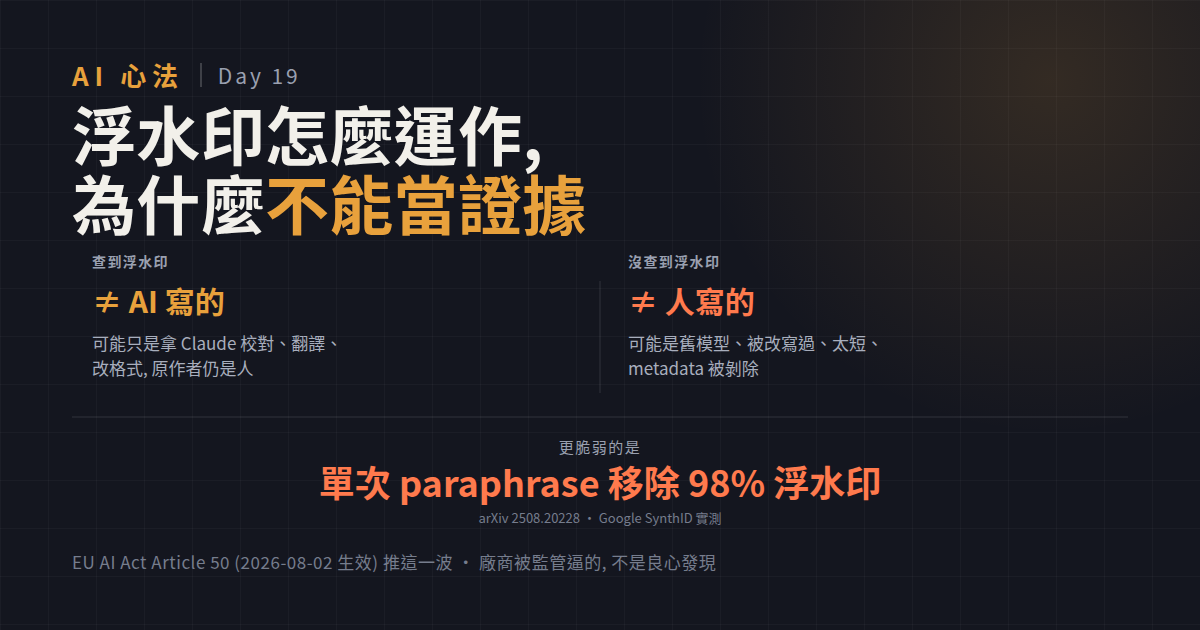
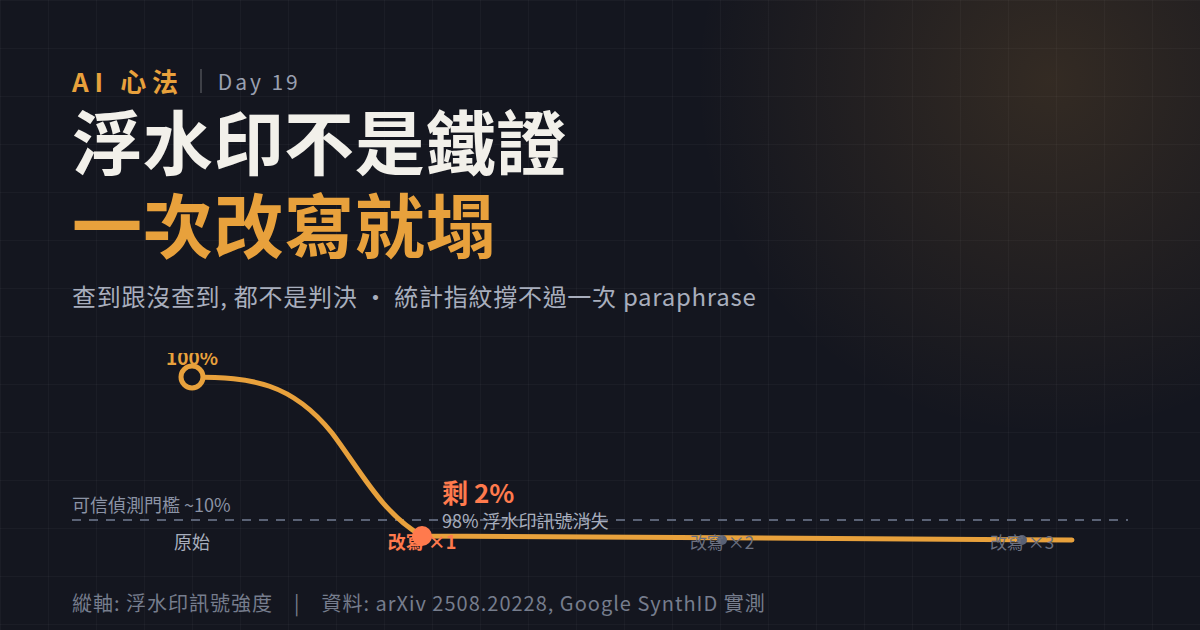
Day 19 cover 改版: 仿 Day 1-5 圖像風, 衰退曲線
- 版式: 從兩欄文字 ≠ 卡 換成 Day 2 式衰退曲線 chart
- H1 改短「浮水印不是鐵證 / 一次改寫就塌」, em 標「一次改寫就塌」
- 新增 sub 標 (Day 1-5 慣例): 「查到跟沒查到, 都不是判決 · 統計指紋撐不過一次 paraphrase」
- SVG chart:
  - X 軸: 原始 / 改寫 ×1 / 改寫 ×2 / 改寫 ×3
  - 曲線從 100% (gold 大圓) 急墜到 2% (紅圓), 之後幾乎平貼底部
  - 「剩 2%」紅字 highlight + 「98% 浮水印訊號消失」小字補
  - 虛線標「可信偵測門檻 ~10%」
- Foot 改 Day 2 格式: 「縱軸: 浮水印訊號強度 | 資料: arXiv 2508.20228, Google SynthID 實測」
- 標題字級拉到 70px, line-height 1.18, 跟 Day 1-5 一致
- padding 56 → 62, 跟 Day 1-5 一致

diff --git a/05-notes/ironman/assets/cover-day19.html b/05-notes/ironman/assets/cover-day19.html
@@ -7,50 +7,56 @@ body{width:1200px;height:630px;font-family:"Noto Sans CJK TC",sans-serif;
   background-size:48px 48px}
 .glow{position:absolute;width:760px;height:760px;right:-230px;top:-300px;border-radius:50%;
   background:radial-gradient(circle,#e8a13c26 0%,transparent 66%)}
-.wrap{position:relative;padding:56px 72px;height:100%;display:flex;flex-direction:column;justify-content:space-between}
+.wrap{position:relative;padding:62px 72px;height:100%;display:flex;flex-direction:column;justify-content:space-between}
 .top{display:flex;align-items:center;gap:16px}
 .mark{font-size:26px;font-weight:700;letter-spacing:.22em;color:#e8a13c}
 .bar{width:2px;height:24px;background:#ffffff2e}
 .day{font-size:21px;letter-spacing:.14em;color:#9aa0b0}
-h1{font-size:64px;font-weight:900;line-height:1.08;letter-spacing:.005em}
+h1{font-size:70px;font-weight:900;line-height:1.18;letter-spacing:.01em}
 h1 em{font-style:normal;color:#e8a13c}
-.chartwrap{margin-bottom:4px;margin-top:4px}
-.foot{font-size:17px;color:#767d8d;letter-spacing:.03em}
+.sub{margin-top:14px;font-size:24px;color:#a8aebd;letter-spacing:.03em}
+.chartwrap{margin-bottom:10px;margin-top:10px}
+.axis{height:30px}
+.foot{font-size:20px;color:#767d8d;letter-spacing:.05em}
 text{font-family:"Noto Sans CJK TC",sans-serif}
 </style></head><body>
 <div class="grid"></div><div class="glow"></div>
 <div class="wrap">
   <div class="top"><span class="mark">AI 心法</span><span class="bar"></span><span class="day">Day 19</span></div>
   <div>
-    <h1>浮水印怎麼運作,<br>為什麼<em>不能當證據</em></h1>
+    <h1>浮水印不是鐵證<br><em>一次改寫就塌</em></h1>
+    <div class="sub">查到跟沒查到, 都不是判決 · 統計指紋撐不過一次 paraphrase</div>
   </div>
   <div class="chartwrap">
-  <svg width="1056" height="290" viewBox="0 0 1056 290">
-    <!-- Column headers -->
-    <text x="20" y="22" fill="#9aa0b0" font-size="14" letter-spacing=".1em" font-weight="700">查到浮水印</text>
-    <text x="556" y="22" fill="#9aa0b0" font-size="14" letter-spacing=".1em" font-weight="700">沒查到浮水印</text>
+  <div class="axis"></div>
+  <svg width="1056" height="220" viewBox="0 0 1056 220">
+    <!-- 可信門檻虛線 (10%) -->
+    <line x1="0" y1="167" x2="1056" y2="167" stroke="#5a6275" stroke-width="2" stroke-dasharray="9 8"/>
+    <text x="0" y="159" fill="#8b93a5" font-size="18">可信偵測門檻 ~10%</text>
 
-    <!-- Vertical divider -->
-    <line x1="528" y1="36" x2="528" y2="148" stroke="#ffffff20" stroke-width="1"/>
+    <!-- 衰退曲線: pass 0 full → pass 1 crash → pass 2/3 flat -->
+    <path d="M120,24 C 180,24 220,30 260,80 C 290,120 310,160 350,183 L 1000,187"
+          fill="none" stroke="#e8a13c" stroke-width="5" stroke-linecap="round"/>
 
-    <!-- Big ≠ claim -->
-    <text x="20" y="68" fill="#e8a13c" font-size="30" font-weight="900">≠ AI 寫的</text>
-    <text x="556" y="68" fill="#ff7a4d" font-size="30" font-weight="900">≠ 人寫的</text>
+    <!-- Pass 0: 原始 Claude 輸出 100% (big gold dot) -->
+    <circle cx="120" cy="24" r="11" fill="#14161f" stroke="#e8a13c" stroke-width="5"/>
+    <text x="120" y="12" fill="#e8a13c" font-size="19" text-anchor="middle" font-weight="700">100%</text>
+    <text x="120" y="196" fill="#a8aebd" font-size="18" text-anchor="middle">原始</text>
 
-    <!-- Supporting text -->
-    <text x="20" y="105" fill="#a8aebd" font-size="17">可能只是拿 Claude 校對、翻譯、</text>
-    <text x="20" y="130" fill="#a8aebd" font-size="17">改格式, 原作者仍是人</text>
-    <text x="556" y="105" fill="#a8aebd" font-size="17">可能是舊模型、被改寫過、太短、</text>
-    <text x="556" y="130" fill="#a8aebd" font-size="17">metadata 被剝除</text>
+    <!-- Pass 1: 一次 paraphrase 剩 2% (red crash dot) -->
+    <circle cx="350" cy="183" r="10" fill="#ff7a4d"/>
+    <text x="370" y="150" fill="#ff7a4d" font-size="26" font-weight="900">剩 2%</text>
+    <text x="370" y="175" fill="#a8aebd" font-size="18">98% 浮水印訊號消失</text>
+    <text x="350" y="196" fill="#ff7a4d" font-size="18" text-anchor="middle" font-weight="700">改寫 ×1</text>
 
-    <!-- Full horizontal divider -->
-    <line x1="0" y1="172" x2="1056" y2="172" stroke="#ffffff20" stroke-width="1"/>
+    <!-- Pass 2 -->
+    <circle cx="650" cy="187" r="5" fill="#5a6275"/>
+    <text x="650" y="196" fill="#6b7080" font-size="17" text-anchor="middle">改寫 ×2</text>
 
-    <!-- 98% callout -->
-    <text x="528" y="208" fill="#9aa0b0" font-size="15" text-anchor="middle" letter-spacing=".1em">更脆弱的是</text>
-    <text x="528" y="252" fill="#ff7a4d" font-size="36" font-weight="900" text-anchor="middle">單次 paraphrase 移除 98% 浮水印</text>
-    <text x="528" y="278" fill="#767d8d" font-size="13" text-anchor="middle">arXiv 2508.20228 · Google SynthID 實測</text>
+    <!-- Pass 3 -->
+    <circle cx="950" cy="187" r="5" fill="#5a6275"/>
+    <text x="950" y="196" fill="#6b7080" font-size="17" text-anchor="middle">改寫 ×3</text>
   </svg>
   </div>
-  <div class="foot">EU AI Act Article 50 (2026-08-02 生效) 推這一波 · 廠商被監管逼的, 不是良心發現</div>
+  <div class="foot">縱軸: 浮水印訊號強度　|　資料: arXiv 2508.20228, Google SynthID 實測</div>
 </div></body></html>
